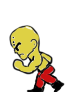
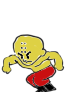
adding jump sprites

diff --git a/main.py b/main.py
@@ -6,30 +6,25 @@ wall = Rect(350,300, 30,30)
 shaolin = Actor('shaolin')
 shaolin.pos = 100, 56
 
-
 WIDTH = 800
 HEIGHT = 500
 
 blocks = []
 
 class World:
-
     block_larg = 10
     block_alt = 30
-
 
 class Moveset:
     buttonPressed = False
     jumping = False
-    falling = False
+    falling = True
     jumpSpeed = 0
-    jumpInitial = 0      # força inicial
+    jumpInitial = 0
     jumpMax = 30
-
     running = False
     leftR = False
     rightR = False
-
 
 class Physics:
     gravity = 5
@@ -37,22 +32,23 @@ class Physics:
     collisionHorizontal = False
     left = False
     right = False    
-    
 
 class Animation:
+    state = 'idle'
     leftRunningImages = ['leftrunningshaolin', '1.5leftrunningshaolin', '2leftrunningshaolin']
     rightRunningImages = ['rightrunningshaolin','1.5rightrunningshaolin', '2rightrunningshaolin']
+    jumpleftImages = ['jumplshaolin', '2jumplshaolin']
+    jumprightImages = ['jumprshaolin', '2jumprshaolin']
     frame = 0
     frameCounter = 0
     frameSpeed = 5
-
 
 animate = Animation()
 move = Moveset()
 phys = Physics()
 world1 = World()
 
-for x in range(300, 600,300):
+for x in range(300, 600, 300):
     block = Rect(x, 300, world1.block_larg, world1.block_alt)
     blocks.append(block)
 
@@ -61,20 +57,16 @@ def draw():
     shaolin.draw()
     screen.draw.rect(ground, (255, 255, 255))
     screen.draw.rect(wall, (255,255,255))
-#    screen.draw.rect(wall, (255,255,255))
-    block_image = Actor('block')  # Carregue a imagem do bloco
+    block_image = Actor('block')
     
     for block in blocks:
         block_image.pos = block.x, block.y
-        block_image.draw()  # Desenha a imagem do bloco
-
-
+        block_image.draw()
 
 def update():
 
-    normal_stance()
-    # ===== APLICA GRAVIDADE =====
-    if not phys.collisionVertical and not move.jumping:
+    # ===== GRAVIDADE =====
+    if not move.jumping and not phys.collisionVertical:
         shaolin.y += phys.gravity
         move.falling = True
 
@@ -82,10 +74,13 @@ def update():
     if keyboard.w and not move.falling and not move.jumping:
         move.jumping = True
         move.jumpSpeed = 15
-    
+
     if move.jumping:
         shaolin.y -= move.jumpSpeed
         move.jumpSpeed -= 1
+        
+        animate.state = "jump_left" if move.leftR else "jump_right"
+
         if move.jumpSpeed <= 0:
             move.jumping = False
             move.falling = True
@@ -93,90 +88,110 @@ def update():
     # ===== MOVIMENTO HORIZONTAL =====
     if keyboard.d:
         shaolin_right()
+        animate.state = "run_right"
         move.leftR = False
-        if phys.right == False:       
+        if not phys.right:
             shaolin.x += 5
-            move.rightR = True 
+            move.rightR = True
 
-      #  animate.frame = 0
-    if keyboard.a:
+    elif keyboard.a:
         shaolin_left()
+        animate.state = "run_left"
         move.rightR = False
         if not phys.left:
             shaolin.x -= 5
             move.leftR = True
 
-    # ===== VERIFICA COLISÃO APÓS MOVER =====
-    colisao()
-    
+    else:
+        animate.state = "idle"
 
+    colisao()
+    update_animation()
+
+def update_animation():
+
+    if move.jumping:
+        shaolin.image = "2jumplshaolin" if move.leftR else "2jumprshaolin"
+        return
+    
+    if animate.state == "run_right":
+        shaolin_right()
+        return
+
+    if animate.state == "run_left":
+        shaolin_left()
+        return
+
+    normal_stance()
 
 def shaolin_right():  
-    #animate.frame = 0
     animate.frameCounter += 1
-    if animate.frameCounter >= animate.frameSpeed:     
+    if animate.frameCounter >= animate.frameSpeed:
         animate.frameCounter = 0
         animate.frame = (animate.frame + 1) % len(animate.rightRunningImages)
-    
-    shaolin.image = (animate.rightRunningImages[animate.frame])
+    shaolin.image = animate.rightRunningImages[animate.frame]
 
 def shaolin_left():       
-    #shaolin.image = ('leftrunningshaolin')
-    #animate.frame = 0     
     animate.frameCounter += 1
-    if animate.frameCounter >= animate.frameSpeed:     
+    if animate.frameCounter >= animate.frameSpeed:
         animate.frameCounter = 0
         animate.frame = (animate.frame + 1) % len(animate.leftRunningImages)
-    
-    shaolin.image = (animate.leftRunningImages[animate.frame])
+    shaolin.image = animate.leftRunningImages[animate.frame]
 
 def normal_stance():
-    if move.rightR == True:
-        shaolin.image = ('shaolin')
-    elif move.leftR == True:
-        shaolin.image = ('lshaolin')
-
+    if move.jumping or move.falling:
+        return
+    if move.rightR:
+        shaolin.image = 'shaolin'
+    elif move.leftR:
+        shaolin.image = 'lshaolin'
 
 def colisao():
 
-    print(f'shaolin em {shaolin.x}, {shaolin.y}')
     phys.collisionVertical = False
     phys.collisionHorizontal = False
-    
-    # Chão
+
+    # ===== COLISÃO COM CHÃO =====
     if shaolin.colliderect(ground):
-        if shaolin.bottom >= ground.top:
+        if move.falling and shaolin.bottom >= ground.top:
             shaolin.bottom = ground.top
             move.falling = False
             phys.collisionVertical = True
             return
 
-    # Blocos
+    # ===== COLISÃO COM BLOCOS =====
     for block in blocks:
         if shaolin.colliderect(block):
-            # Está vindo de cima
-            if shaolin.bottom >= block.top and shaolin.y < block.top:
+
+            # Veio de cima (CAINDO)
+            if move.falling and shaolin.bottom >= block.top and shaolin.y < block.top:
                 shaolin.bottom = block.top
                 move.falling = False
                 phys.collisionVertical = True
                 return
-    
-    #horizontal
+
+            # Veio de baixo (SUBINDO — bateu a cabeça)
+            if move.jumping and shaolin.top <= block.bottom and shaolin.y > block.bottom:
+                shaolin.top = block.bottom
+                move.jumping = False
+                move.falling = True
+                phys.collisionVertical = True
+                return
+
+    # ===== COLISÃO HORIZONTAL (PAREDE) =====
     if shaolin.colliderect(wall):
+
+        # bate no lado direito do personagem
         if shaolin.right >= wall.left and shaolin.left < wall.left:
-            phys.right = True            
-            move.running = False
+            phys.right = True
             phys.collisionHorizontal = True
-            #print('bateu na direita')
             return
         
-        elif shaolin.left <= wall.right and shaolin.right > wall.right:
+        # bate no lado esquerdo
+        if shaolin.left <= wall.right and shaolin.right > wall.right:
             phys.left = True
-            move.running = False
             phys.collisionHorizontal = True
-            print('bateu esquerda')
             return
-        
+
     phys.left = False
     phys.right = False
-    
